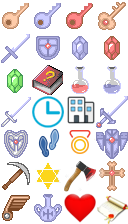
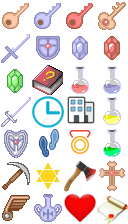
适配新buff属性，修正深度预测的一个问题

Changed region(s): [[0.75, 0.4062, 1.0, 0.7188]]

diff --git a/damage.cpp b/damage.cpp
@@ -1,25 +1,30 @@
-#include "mogicTower.h"
+#include "damage.h"
 
 /*
-此函数计算一个怪物对勇士造成的伤害
-参数说明：
-h_atk: 勇士攻击
-h_def: 勇士防御
-h_mdef: 勇士魔防
-m_hp: 怪物生命值
-m_atk: 怪物攻击
-m_def: 怪物防御
-m_spe: 怪物特效
-返回值：
-一个整数，代表伤害值。
-如果勇士无法对怪物造成伤害，返回999999999
+    此函数计算一个怪物对勇士造成的伤害
+    参数说明：
+        h_atk: 勇士攻击
+        h_def: 勇士防御
+        h_mdef: 勇士魔防
+        m_hp: 怪物生命值
+        m_atk: 怪物攻击
+        m_def: 怪物防御
+        m_spe: 怪物特效
+    返回值：
+        一个整数，代表伤害值。
+        如果勇士无法对怪物造成伤害，返回999999999
 
-怪物特效说明：
-0: 无特效
-1: 魔攻（怪物无视勇士的防御）
-2: 坚固（怪物防御=勇士攻击-1）
-3: 先攻（战斗前怪物首先攻击勇士一次）
-4: 2连击（每回合怪物打勇士两次）
+    怪物特效说明：
+        0: 无特效
+        1: 魔攻（怪物无视勇士的防御）
+        2: 坚固（怪物防御=勇士攻击-1）
+        3: 先攻（战斗前怪物首先攻击勇士一次）
+        4: 破甲（怪物附加角色防御的90%点作为伤害）
+        5: 反击（怪物每回合附加角色攻击的10%作为伤害）
+        6: 模仿（怪物攻防=勇士攻防）
+        7: 2连击（每回合怪物打勇士两次）
+        8: 3连击（每回合怪物打勇士三次）
+        9: 4连击（每回合怪物打勇士四次）
 */
 int getDamage(int h_atk, int h_def, int h_mdef, int m_hp, int m_atk, int m_def, int m_spe)
 {
@@ -27,6 +32,11 @@ int getDamage(int h_atk, int h_def, int h_mdef, int m_hp, int m_atk, int m_def, 
         h_def = 0;
     if (m_spe == 2) // 坚固
         m_def = h_atk - 1;
+    if (m_spe == 6) // 模仿
+    {
+        m_atk = h_atk;
+        m_def = h_def;
+    }
 
     if (h_atk <= m_def) // 无法战斗
         return 999999999;
@@ -38,10 +48,22 @@ int getDamage(int h_atk, int h_def, int h_mdef, int m_hp, int m_atk, int m_def, 
         damage += m_atk - h_def;
 
     int m_times = 1;
-    if (m_spe == 4) // 2连击
+    if (m_spe == 7) // 2连击
         m_times = 2;
+    if (m_spe == 8) // 3连击
+        m_times = 3;
+    if (m_spe == 9) // 4连击
+        m_times = 4;
 
-    damage += (m_hp - 1) / (h_atk - m_def)*(m_atk - h_def)*m_times; // 怪物伤害计算公式
+    int beat_times = (m_hp - 1) / (h_atk - m_def);
+
+    if (m_spe == 4) // 破甲
+        damage += h_def * 0.9;
+
+    if (m_spe == 5) // 反击
+        damage += beat_times * h_atk * 0.1;
+
+    damage += beat_times * (m_atk - h_def) * m_times; // 怪物伤害计算公式
     damage -= h_mdef;
 
     return damage <= 0 ? 0 : damage;

diff --git a/mogicTower.cpp b/mogicTower.cpp
@@ -9,9 +9,9 @@
 bool PlayerInfo::operator==(const PlayerInfo& o) const
 {
     return hp == o.hp && atk == o.atk && def == o.def &&
-        mdef == o.mdef && keys[0] == o.keys[0] &&
-        keys[1] == o.keys[1] && pos == o.pos && 
-        blockCount == o.blockCount;
+           mdef == o.mdef && keys[0] == o.keys[0] &&
+           keys[1] == o.keys[1] && pos == o.pos &&
+           blockCount == o.blockCount;
 }
 
 int PlayerInfo::getKeyCount(MapObj o) const
@@ -47,6 +47,12 @@ void PlayerInfo::acquire(const vector<MapObj>& objList)
             case largeBottle:
                 hp += Tower::buff[4];
                 break;
+            case yellowBottle:
+                hp += Tower::buff[5];
+                break;
+            case greenBottle:
+                hp += Tower::buff[6];
+                break;
             default:
                 throw invalid_argument("Invalid obj type!");
         }
@@ -75,7 +81,7 @@ bool PlayerInfo::fight(MapObj monster)
     return false;
 }
 
-bool PlayerInfo::canBeat(MapObj monster)const
+bool PlayerInfo::canBeat(MapObj monster) const
 {
 #ifdef DEBUG
     assert(isMonster(monster));
@@ -84,7 +90,7 @@ bool PlayerInfo::canBeat(MapObj monster)const
     return hp > dmg;
 }
 
-int Tower::buff[5];
+int Tower::buff[7];
 
 map<MapObj, Monster> Tower::monsterInfo;
 
@@ -113,7 +119,7 @@ const Status& Status::operator=(const Status& other)
     return *this;
 }
 
-bool Status::bossDead()const
+bool Status::bossDead() const
 {
     return bossIdx == 0;
 }
@@ -152,7 +158,7 @@ int Status::getRemainKeyCount(MapObj keyType) const
     return cnt;
 }
 
-bool Status::hasNext()const
+bool Status::hasNext() const
 {
     const auto& adj = getNode().adj;
     if (bossDead())
@@ -282,7 +288,7 @@ const Status& Status::readInitStatus()
             for (size_t j = 0; j < MAP_LENGTH; ++j)
                 cin >> mogicTower.mapContent[i][j];
 
-        for (size_t i = 0; i < 5; i++)
+        for (size_t i = 0; i < 7; i++)
             cin >> mogicTower.buff[i];
 
         int monsterTypeCount;

diff --git a/AI.cpp b/AI.cpp
@@ -156,14 +156,18 @@ void initDefaultDepth(const Status& stat)
                 DEFAULT_DEPTH = 8;
         }
     }
-    else if (ma == 5)
+    else if (ma >= 5)
     {
         if (averageAdjCount < 2.20 || nodeCount <= 49)
             DEFAULT_DEPTH = 7;
+        else if (averageAdjCount < 2.5)
+            DEFAULT_DEPTH = 6;
+        else
+            DEFAULT_DEPTH = 5;
     }
     else if (stat.getRemainDoorCount(yellowDoor) > stat.getRemainKeyCount(yellowKey) ||
-        stat.getRemainDoorCount(blueDoor) > stat.getRemainKeyCount(blueKey) ||
-        stat.getRemainDoorCount(redDoor) > stat.getRemainKeyCount(redKey))
+             stat.getRemainDoorCount(blueDoor) > stat.getRemainKeyCount(blueKey) ||
+             stat.getRemainDoorCount(redDoor) > stat.getRemainKeyCount(redKey))
         DEFAULT_DEPTH = 10;
 
     MAX_DEPTH = DEFAULT_DEPTH;

diff --git a/mogicTower.h b/mogicTower.h
@@ -26,6 +26,8 @@ enum MapObj
     greenDiamond,
     smallBottle,
     largeBottle,
+    yellowBottle,
+    greenBottle,
 
     yellowDoor = 31,
     blueDoor,
@@ -153,7 +155,7 @@ struct Tower
     int colorMap[MAP_LENGTH][MAP_WIDTH]; 
 
     /* 记录各加成值 */
-    static int buff[5];
+    static int buff[7];
 
     /* 记录怪物数据 */
     static map<MapObj, Monster> monsterInfo;

diff --git a/damage.h b/damage.h
@@ -1,6 +1,8 @@
 #ifndef __DAMAGE_H
 #define __DAMAGE_H
 
+#include "mogicTower.h"
+
 /*
 此函数计算一个怪物对勇士造成的伤害
 参数说明：
